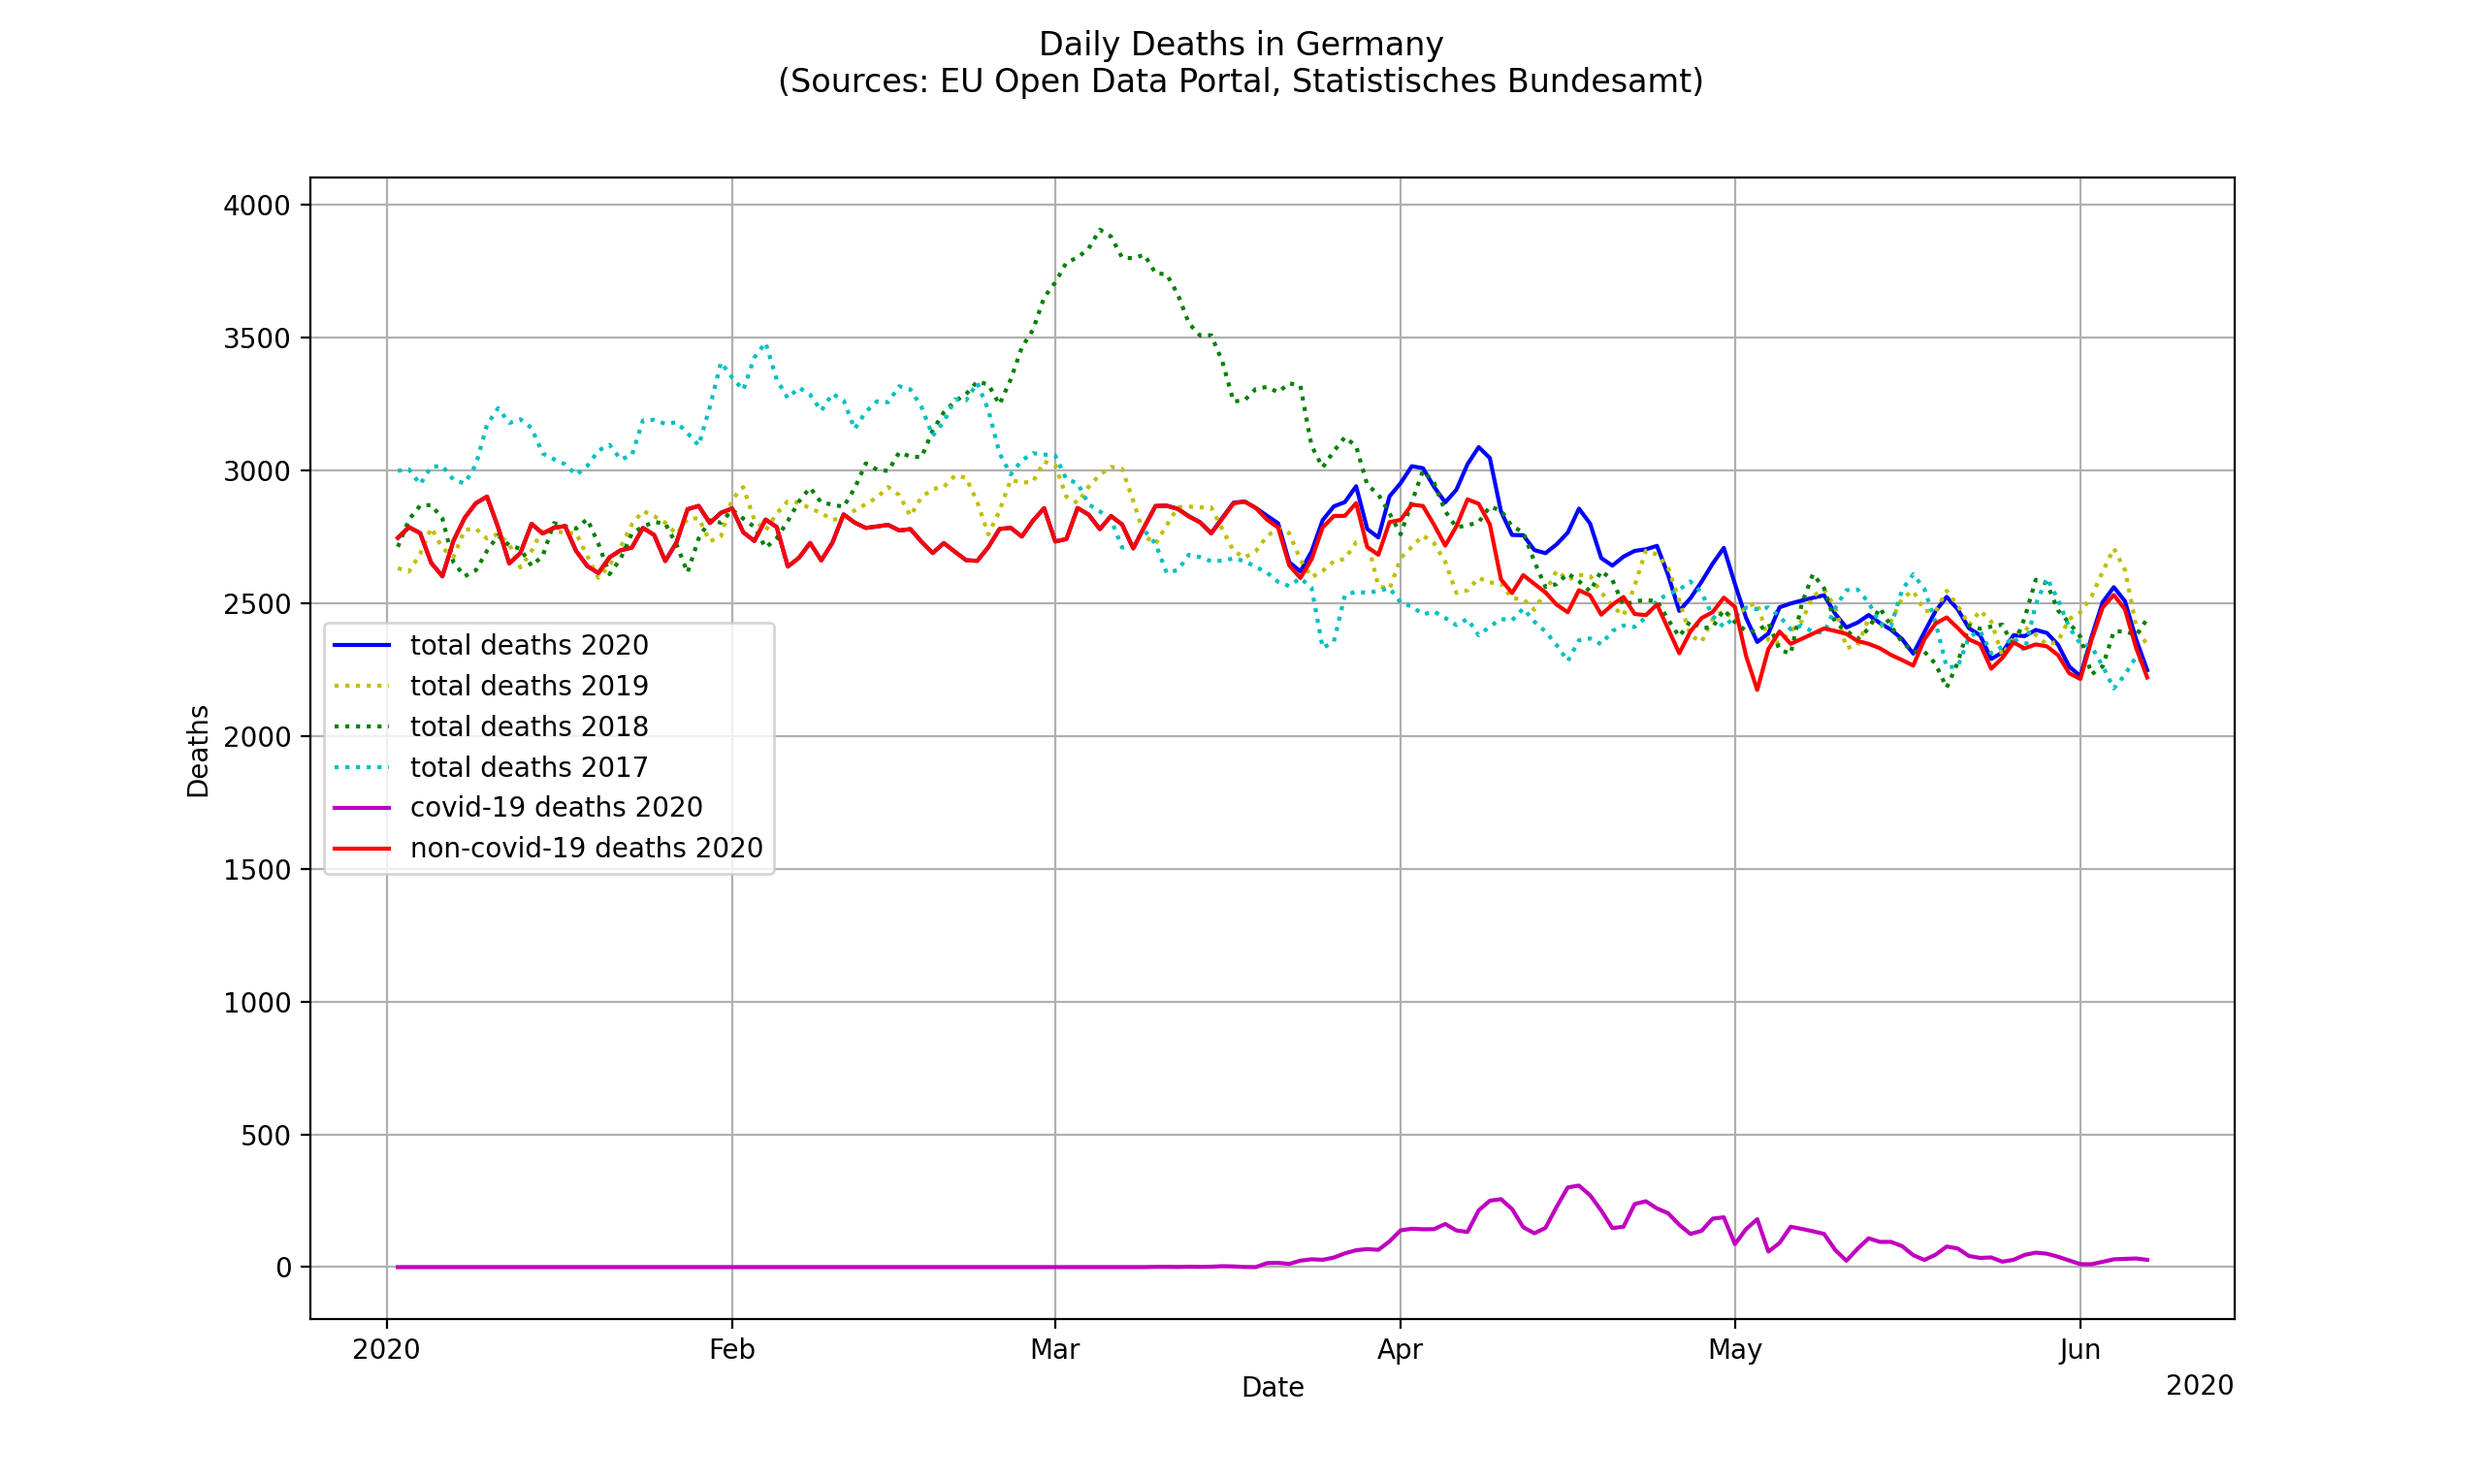
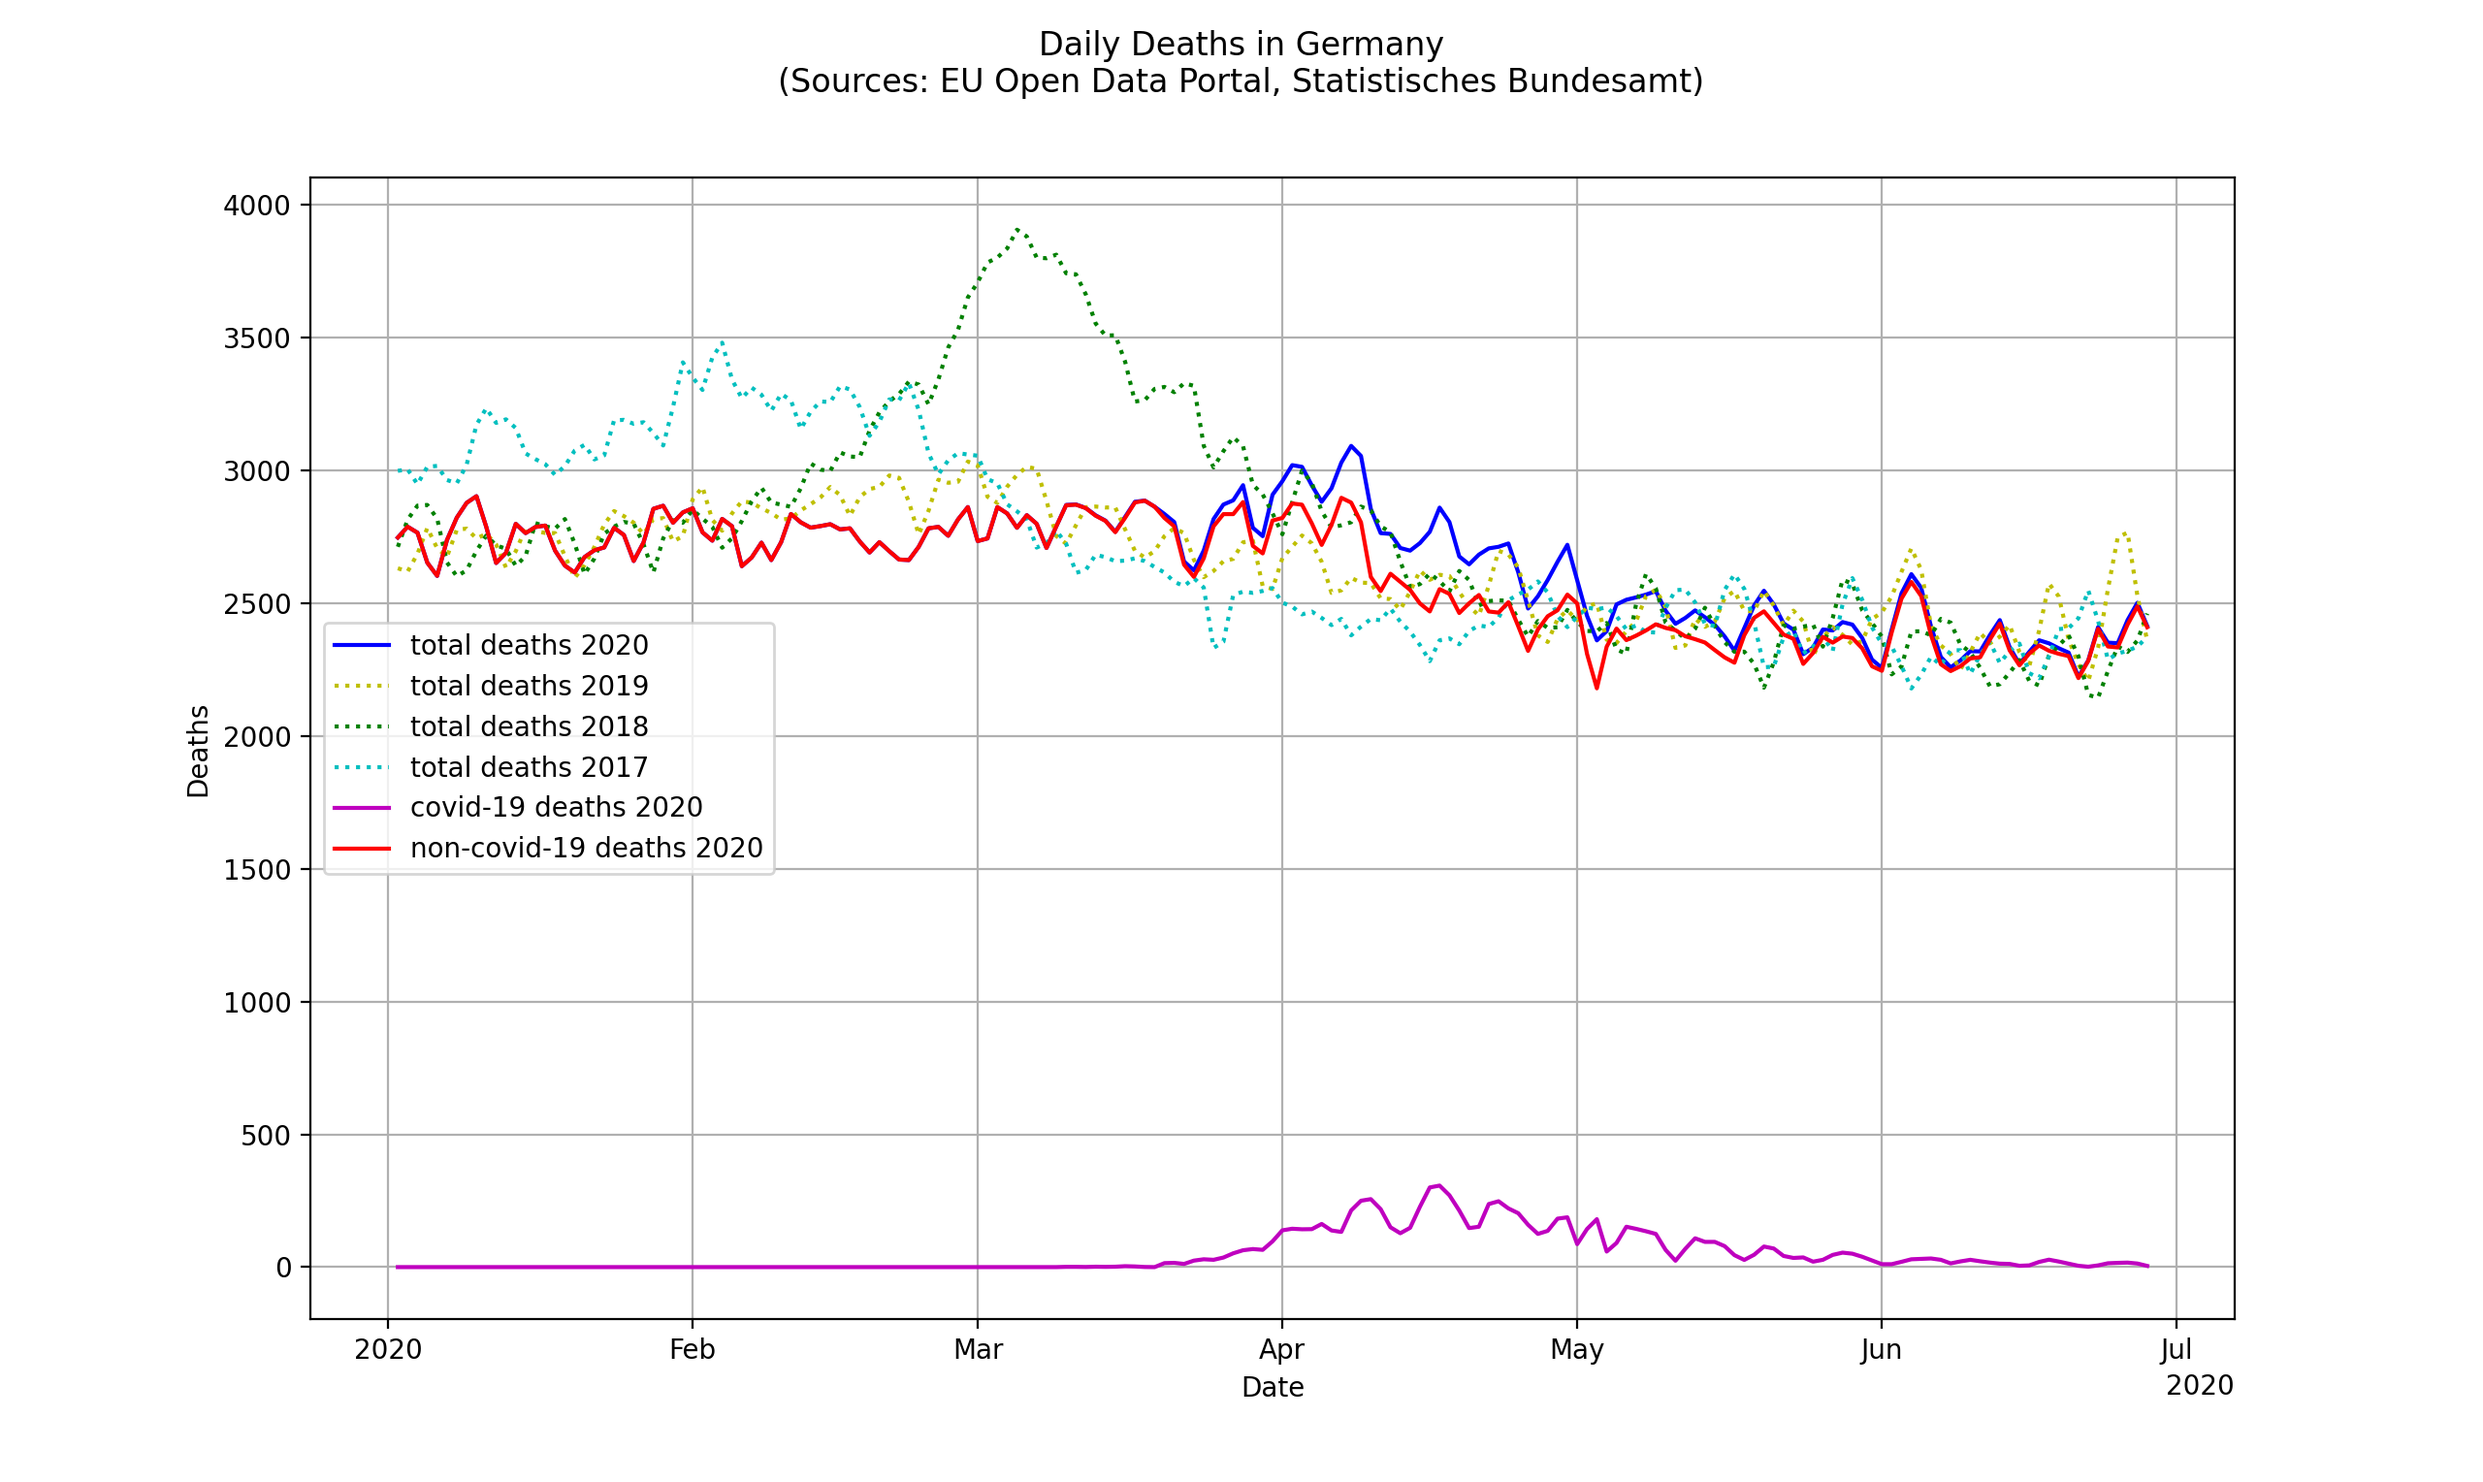
updated stats

diff --git a/corona_config.py b/corona_config.py
@@ -17,7 +17,7 @@ backup_path_rki_report = "{}/backup_{}".format(data_folder, file_rki_report)
 
 link_corona_cases = "https://opendata.ecdc.europa.eu/covid19/casedistribution/csv"
 link_deaths_germany = "https://www.destatis.de/DE/Themen/Gesellschaft-Umwelt/Bevoelkerung/Sterbefaelle-Lebenserwartung/Tabellen/sonderauswertung-sterbefaelle.xlsx?__blob=publicationFile"
-link_rki_report = "https://www.rki.de/DE/Content/InfAZ/N/Neuartiges_Coronavirus/Situationsberichte/2020-07-01-de.pdf?__blob=publicationFile"
+link_rki_report = "https://www.rki.de/DE/Content/InfAZ/N/Neuartiges_Coronavirus/Situationsberichte/2020-07-29-de.pdf?__blob=publicationFile"
 
 data_sources = [
     (link_corona_cases, path_corona_cases, backup_path_corona_cases),

diff --git a/corona_analysis.py b/corona_analysis.py
@@ -96,8 +96,8 @@ def positives_to_tests_germany():
     ax2.set_ylabel('Positives Ratio', color=color)
     ax2.plot(time, positives_ratio, color=color)
     ax2.tick_params(axis='y', labelcolor=color)
-    ax1.set_ylim([0, 500])
-    ax2.set_ylim([0, 0.25])
+    ax1.set_ylim([0, 600])
+    ax2.set_ylim([0, 0.30])
 
     plt.subplot(2, 1, 2)
     ax1 = plt.gca()
@@ -113,8 +113,8 @@ def positives_to_tests_germany():
     ax2.set_ylabel('Absolute Positives (in thousands)', color=color)
     ax2.plot(time, positives, color=color)
     ax2.tick_params(axis='y', labelcolor=color)
-    ax1.set_ylim([0, 500])
-    ax2.set_ylim([0, 50])
+    ax1.set_ylim([0, 600])
+    ax2.set_ylim([0, 60])
 
 
     plt.show()

diff --git a/corona_database.py b/corona_database.py
@@ -165,7 +165,7 @@ def import_rki_report():
             return float(s)
 
     pdf_file = pdfplumber.open(cfg.path_rki_report)
-    page = pdf_file.pages[10]
+    page = pdf_file.pages[11]
     text = page.extract_text()
     result = re.findall(pattern, text)
 

diff --git a/README.md b/README.md
@@ -62,7 +62,7 @@ Fields in Table `rki_tests`
 The integrated sources so far consist of:
 * the total number of COVID-19 cases reported worlwide, comming from the EU Open Data Portal (https://data.europa.eu/euodp/en/data/dataset/covid-19-coronavirus-data) 
 * the total number of all cause deaths in Germany, reported by the Statistisches Bundesamt (https://www.destatis.de/DE/Themen/Gesellschaft-Umwelt/Bevoelkerung/Sterbefaelle-Lebenserwartung/Tabellen/sonderauswertung-sterbefaelle.html)
-* the total number of performed COVID-19 tests in Germany, reported by the Robert Koch Institute (https://www.rki.de/DE/Content/InfAZ/N/Neuartiges_Coronavirus/Situationsberichte/2020-07-01-de.pdf)
+* the total number of performed COVID-19 tests in Germany, reported by the Robert Koch Institute (https://www.rki.de/DE/Content/InfAZ/N/Neuartiges_Coronavirus/Situationsberichte/2020-07-29-de.pdf)
 
 
 ## Results
